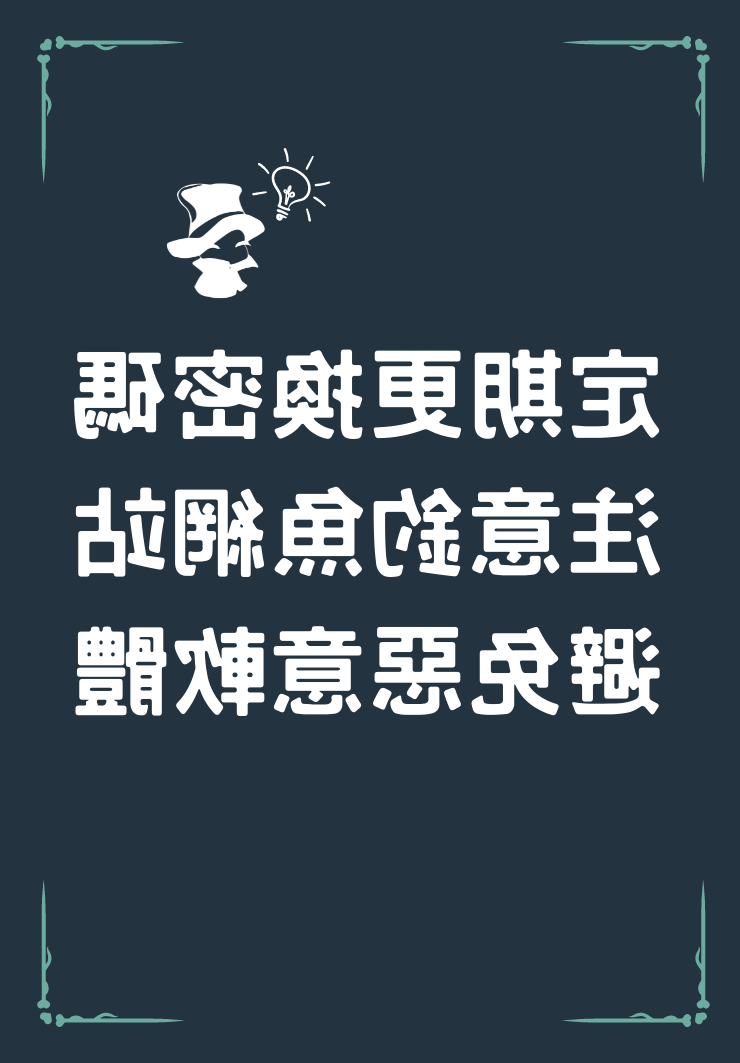
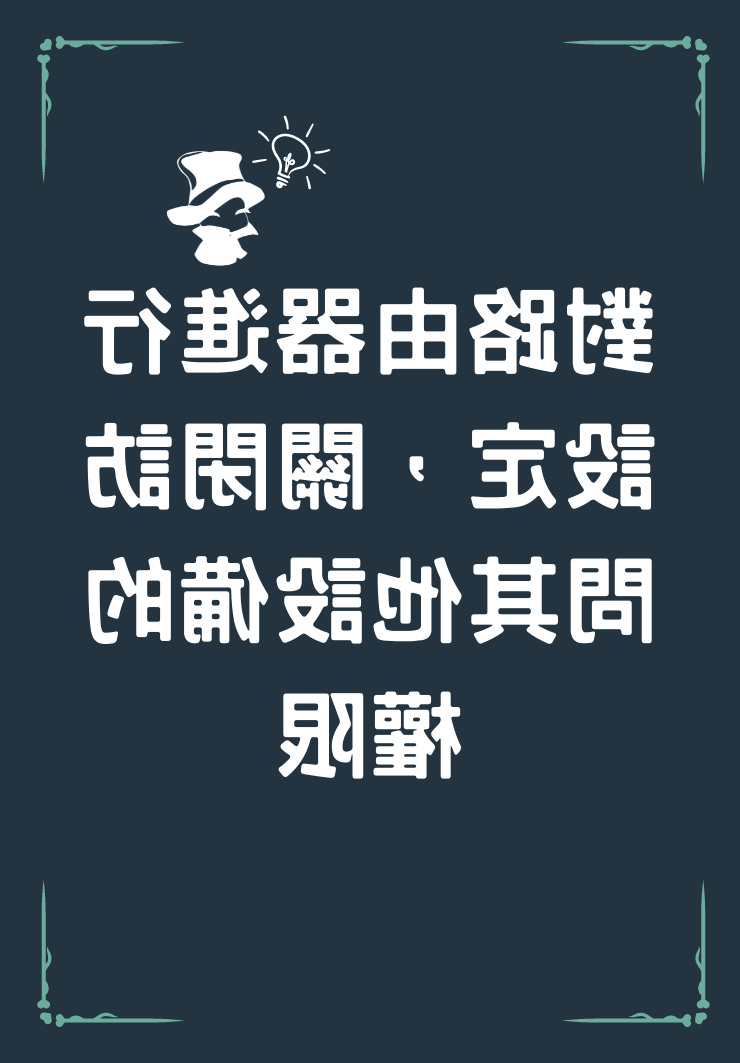
更換新的題目

Changed region(s): [[0.0932, 0.1242, 0.9014, 0.7451]]

diff --git a/js/game.js b/js/game.js
@@ -3,16 +3,16 @@
 var CardGame = function (targetId) {
     // private variables
 
-    var cards = []; // 前 12 張是題目卡，後 12 張是答案卡
-    var cards_num = 12;
+    var cards = []; // 前 8 張是題目卡，後 8 張是答案卡
+    var cards_num = 8;
     var is_deal = false;
     var card_value = [];
-    var question = ["1C", "2C", "3C", "4C", "5C", "6C", "7C", "8C", "9C", "10C", "11C", "12C"]
-    var answer = ["1H", "2H", "3H", "4H", "5H", "6H", "7H", "8H", "9H", "10H", "11H", "12H"]
+    var question = ["1C", "2C", "3C", "4C", "5C", "6C", "7C", "8C"]
+    var answer = ["1H", "2H", "3H", "4H", "5H", "6H", "7H", "8H"]
 
-    // 圖書館出的題目
-    var library_question = ["1C", "1C", "1C", "1C", "1C", "1C", "1C", "1C", "1C", "1C", "1C", "1C"]
-    var library_answer = ["1H", "1H", "1H", "1H", "1H", "1H", "1H", "1H", "1H", "1H", "1H", "2H",]
+    // 圖書館出的題目 有 6 題
+    var library_question = ["13C_Library", "14C_Library", "15C_Library", "16C_Library", "17C_Library", "18C_Library"]
+    var library_answer = ["13H_Library", "14H_Library", "15H_Library", "16H_Library", "17H_Library", "18H_Library"]
 
 
     var matches_found = 0;
@@ -81,10 +81,6 @@ var CardGame = function (targetId) {
         if (cards[id].clicked) return;
         cards[id].className = "card";
         cards[id].firstChild.src = "./images/" + card_value[id] + ".png";
-        //點擊後放大並旋轉-5度
-        // with (cards[id].style) {
-        //     WebkitTransform = MozTransform = OTransform = msTransform = "scale(1.2) rotate(-5deg)";
-        // }
 
         if (card1 !== false) {
             card2 = id;
@@ -113,14 +109,14 @@ var CardGame = function (targetId) {
                         is_deal = false;
                     }, i * 100);
                     setTimeout(function () {
-                        startCard();
                         alertify.confirm('快至攤位兌換獎品吧！').set({
                             title: '恭喜完成闖關',
                             labels: { ok: '重新開始', cancel: '查看解析' },
                             closable: false,
                             onok: function (event) {
                                 card1 = card2 = false;
-                                card_value = ["1C", "2C", "3C", "4C", "5C", "6C", "7C", "8C", "9C", "10C", "11C", "12C", "13C", "1C", "2C", "3C", "1H", "2H", "3H", "4H", "5H", "6H", "7H", "8H", "9H", "10H", "11H", "12H", "13H", "1H", "2H", "3H"];
+                                cards_num = 8;
+                                startCard();
                                 deal();
                             },
                             oncancel: function (event) {
@@ -141,6 +137,8 @@ var CardGame = function (targetId) {
                             moveToPack(card1);
                             moveToPack(card2);
                             card1 = card2 = false;
+                            cards_num = 6;
+                            startCard();
                             deal();
 
                         },
@@ -203,6 +201,7 @@ var CardGame = function (targetId) {
     //發題目牌
     var deal = function () {
         // shuffle and deal cards
+        sort_tmp = []
         if (matches_found == 0)
             sort_tmp = question;
         else
@@ -228,6 +227,7 @@ var CardGame = function (targetId) {
     //發答案牌
     var deal_answer = function () {
         // shuffle and deal cards
+        sort_tmp = []
         if (matches_found == 0)
             sort_tmp = answer;
         else
@@ -253,6 +253,7 @@ var CardGame = function (targetId) {
     // initialise 初始化
     var startCard = function () {
         cards = [];
+        card_value = []
         $('.card').remove();
 
         // template for card
